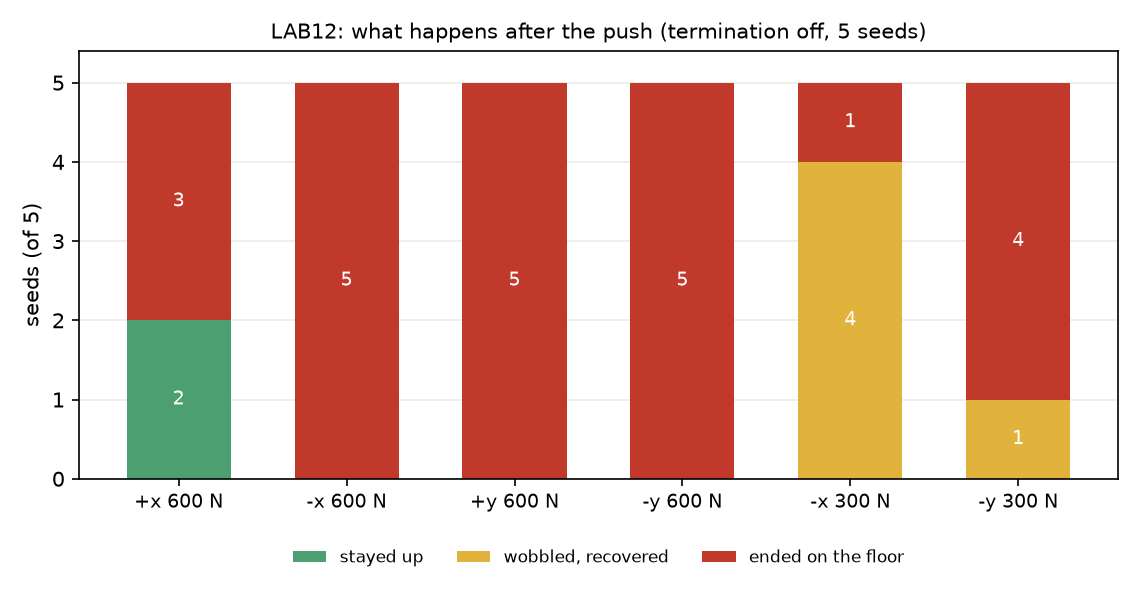
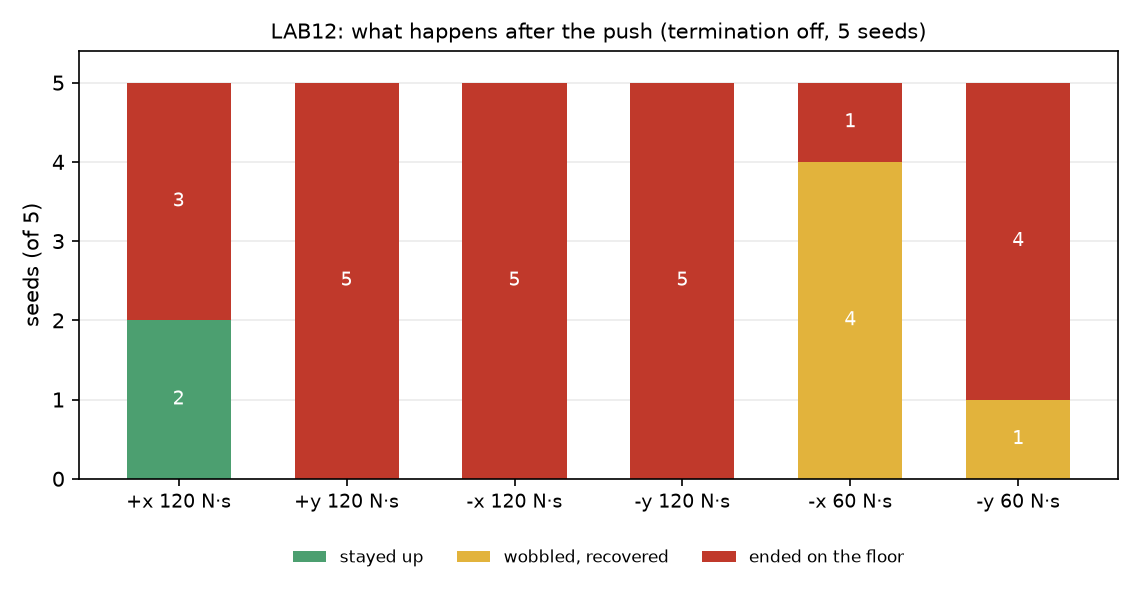
docs(lab13): 冲量—倒地率曲线图；还原工作区里丢失的记录
- 新增 scripts/m5_impulse_sweep.py + outputs/figures/m5_impulse_sweep.png：
  把 LAB12/LAB13/LAB13b 里"终止关、推后 3 s"的格合成一张 冲量 -> 倒地比例 图
  （-x: 40/45/60/80/90/120 = 0/0/1/5/5/5；-y: 0/3/4/5/5/5）；+x/+y 只有 120 的单点
- REPORT §2.5.4 插入该图
- lab12_plot.py 标签改为冲量单位（N·s），重画 lab12_recovery.png
- 还原工作区里丢失但已提交的文件（内容取自 HEAD，未改动）：
  runs/20261119-001-lab13b-true-mid/{README.md,recovery.json,recovery.md}、
  docs/learning/LAB14-{prediction,replication}.md、docs/learning/LAB13-prediction.md 的判分正文
  （REPORT §2.5.4、D24、PLAN 都引用这些内容；若是有意删除请告知，改为去掉引用）

diff --git a/scripts/m5_impulse_sweep.py b/scripts/m5_impulse_sweep.py
@@ -1,0 +1,102 @@
+#!/usr/bin/env python
+"""把"关掉终止"的两批实验（LAB12 + LAB13）画成 冲量 -> 最终倒地比例 的曲线。
+
+只收录**用 --ignore-terminations 重跑过**的格（有 ground truth 的），
+不用姿态审计的 collapse 替代（那是下限，口径不同）。
+
+用法：
+    environment/.venv/bin/python scripts/m5_impulse_sweep.py \
+        --run runs/20261119-001-lab12-recovery \
+        --run runs/20261119-002-lab13-mid-impulse \
+        --out outputs/figures/m5_impulse_sweep.png
+"""
+from __future__ import annotations
+
+import argparse
+import json
+import re
+from pathlib import Path
+
+import matplotlib
+matplotlib.use("Agg")
+import matplotlib.pyplot as plt
+
+CELL_RE = re.compile(r"^(p|n)(x|y)_j(\d+)$")
+DIR_LABEL = {("p", "x"): "+x", ("n", "x"): "-x", ("p", "y"): "+y", ("n", "y"): "-y"}
+COLOR = {"+x": "#1f77b4", "-x": "#ff7f0e", "+y": "#2ca02c", "-y": "#d62728"}
+
+
+def load(runs):
+    cells = {}
+    for run in runs:
+        f = Path(run) / "recovery.json"
+        if not f.exists():
+            raise SystemExit("找不到 %s" % f)
+        for r in json.loads(f.read_text(encoding="utf-8")):
+            m = CELL_RE.match(r["cell"])
+            if not m:
+                continue
+            d = DIR_LABEL[(m.group(1), m.group(2))]
+            imp = int(m.group(3))
+            c = cells.setdefault((d, imp), {"n": 0, "down": 0, "transient": 0, "stable": 0})
+            c["n"] += 1
+            c[r["cls"]] += 1
+    return cells
+
+
+def main() -> int:
+    ap = argparse.ArgumentParser()
+    ap.add_argument("--run", action="append", required=True)
+    ap.add_argument("--out", default="outputs/figures/m5_impulse_sweep.png")
+    args = ap.parse_args()
+
+    cells = load(args.run)
+    for (d, imp) in sorted(cells, key=lambda k: (k[0], k[1])):
+        c = cells[(d, imp)]
+        print("| %s | %d | %d/%d | %d | %d |" % (d, imp, c["down"], c["n"], c["transient"], c["stable"]))
+
+    fig, ax = plt.subplots(figsize=(7.6, 4.2), dpi=150)
+    # 主线：-x / -y（各有 4 个冲量点）
+    for d in ("-x", "-y"):
+        pts = sorted((imp, cells[(d, imp)]) for (dd, imp) in cells if dd == d)
+        xs = [p[0] for p in pts]
+        ys = [p[1]["down"] / p[1]["n"] for p in pts]
+        name = {"-x": "-x (braking, against motion)", "-y": "-y (lateral)"}[d]
+        ax.plot(xs, ys, "-o", color=COLOR[d], label=name, lw=1.8, ms=7, zorder=3)
+        for x, y, p in zip(xs, ys, pts):
+            dy = 9 if y > 0.02 else -14
+            ax.annotate("%d/%d" % (p[1]["down"], p[1]["n"]), (x, y), textcoords="offset points",
+                        xytext=(0, dy), ha="center", fontsize=7, color=COLOR[d])
+    # 单点：+x / +y 只在 120 N·s 有 ground truth（+y 另有 60）
+    for d in ("+x", "+y"):
+        pts = sorted((imp, cells[(d, imp)]) for (dd, imp) in cells if dd == d)
+        xs = [p[0] for p in pts]
+        ys = [p[1]["down"] / p[1]["n"] for p in pts]
+        ax.plot(xs, ys, "s", color=COLOR[d], ms=8, label="%s (single impulse tested)" % d, zorder=3)
+        for x, y, p in zip(xs, ys, pts):
+            ax.annotate("%d/%d" % (p[1]["down"], p[1]["n"]), (x, y), textcoords="offset points",
+                        xytext=(10, -3), ha="left", fontsize=7, color=COLOR[d])
+
+    ax.set_xscale("log")
+    ax.set_xticks([40, 45, 60, 90, 120])
+    ax.set_xticklabels(["40", "45", "60", "90", "120"])
+    ax.xaxis.set_minor_formatter(matplotlib.ticker.NullFormatter())
+    ax.set_xlabel("impulse on torso_link (N·s; 0.2 s window)")
+    ax.set_ylabel("fraction of seeds that ended on the floor")
+    ax.set_ylim(-0.12, 1.12)
+    ax.set_yticks([0, 0.2, 0.4, 0.6, 0.8, 1.0])
+    ax.grid(alpha=0.25)
+    ax.set_axisbelow(True)
+    ax.set_title("M5/LAB12/LAB13: outcome with termination off (5 seeds per point)", fontsize=10)
+    ax.legend(fontsize=8, frameon=False, loc="upper left")
+    ax.text(0.99, 0.02, "1 seed = 20%", transform=ax.transAxes, ha="right", fontsize=7, color="0.4")
+    fig.tight_layout()
+    out = Path(args.out)
+    out.parent.mkdir(parents=True, exist_ok=True)
+    fig.savefig(out)
+    print("wrote", out)
+    return 0
+
+
+if __name__ == "__main__":
+    raise SystemExit(main())

diff --git a/scripts/lab12_plot.py b/scripts/lab12_plot.py
@@ -16,14 +16,14 @@ import matplotlib
 matplotlib.use("Agg")
 import matplotlib.pyplot as plt
 
-ORDER = ["px_j120", "nx_j120", "py_j120", "ny_j120", "nx_j60", "ny_j60"]
+ORDER = ["px_j120", "py_j120", "nx_j120", "ny_j120", "nx_j60", "ny_j60"]
 LABELS = {
-    "px_j120": "+x 600 N",
-    "nx_j120": "-x 600 N",
-    "py_j120": "+y 600 N",
-    "ny_j120": "-y 600 N",
-    "nx_j60": "-x 300 N",
-    "ny_j60": "-y 300 N",
+    "px_j120": "+x 120 N·s",
+    "nx_j120": "-x 120 N·s",
+    "py_j120": "+y 120 N·s",
+    "ny_j120": "-y 120 N·s",
+    "nx_j60": "-x 60 N·s",
+    "ny_j60": "-y 60 N·s",
 }
 COLORS = {"stable": "#4c9f70", "transient": "#e2b33c", "down": "#c0392b"}
 NAMES = {"stable": "stayed up", "transient": "wobbled, recovered", "down": "ended on the floor"}

diff --git a/docs/REPORT.md b/docs/REPORT.md
@@ -186,6 +186,8 @@
 4. **5/5 ≠ 100%**：5 种子的 5/5 只给出 p(down) 的 95% 下界约 0.48（Clopper–Pearson）；写"某档起 100% 倒"必须加种子或重复。
    LAB14 先用同配置重跑（−y 60 与 80 N·s）量噪声底。
 
+![冲量与最终倒地率（终止关，5 种子/点）](outputs/figures/m5_impulse_sweep.png)
+
 报告口径：抗扰结论一律写"在冲量 X N·s（力 Y N × 0.2 s）下，5 次里倒了 k 次"，并注明 5 种子、单一施加时刻（8.0 s）、
 单一波形（0.2 s 方波）、单一作用点（torso_link）。
 
